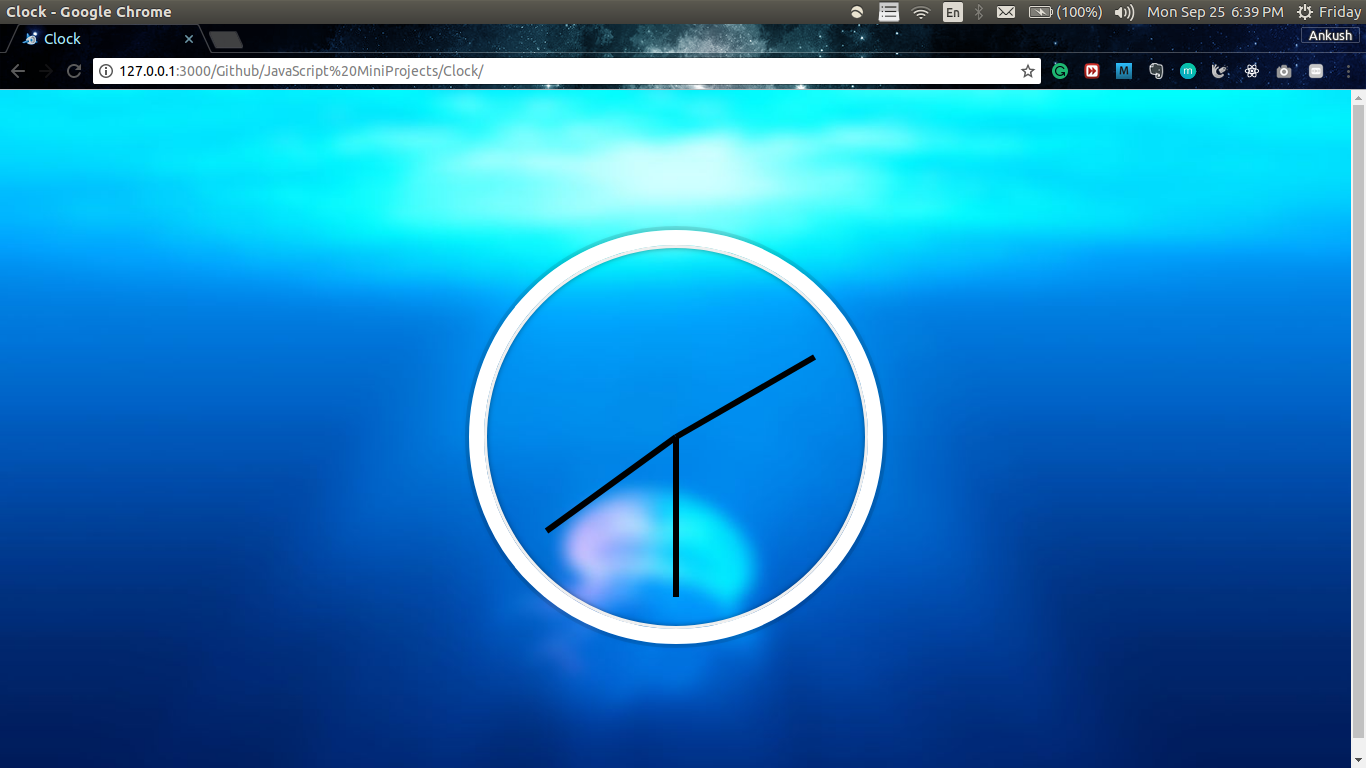
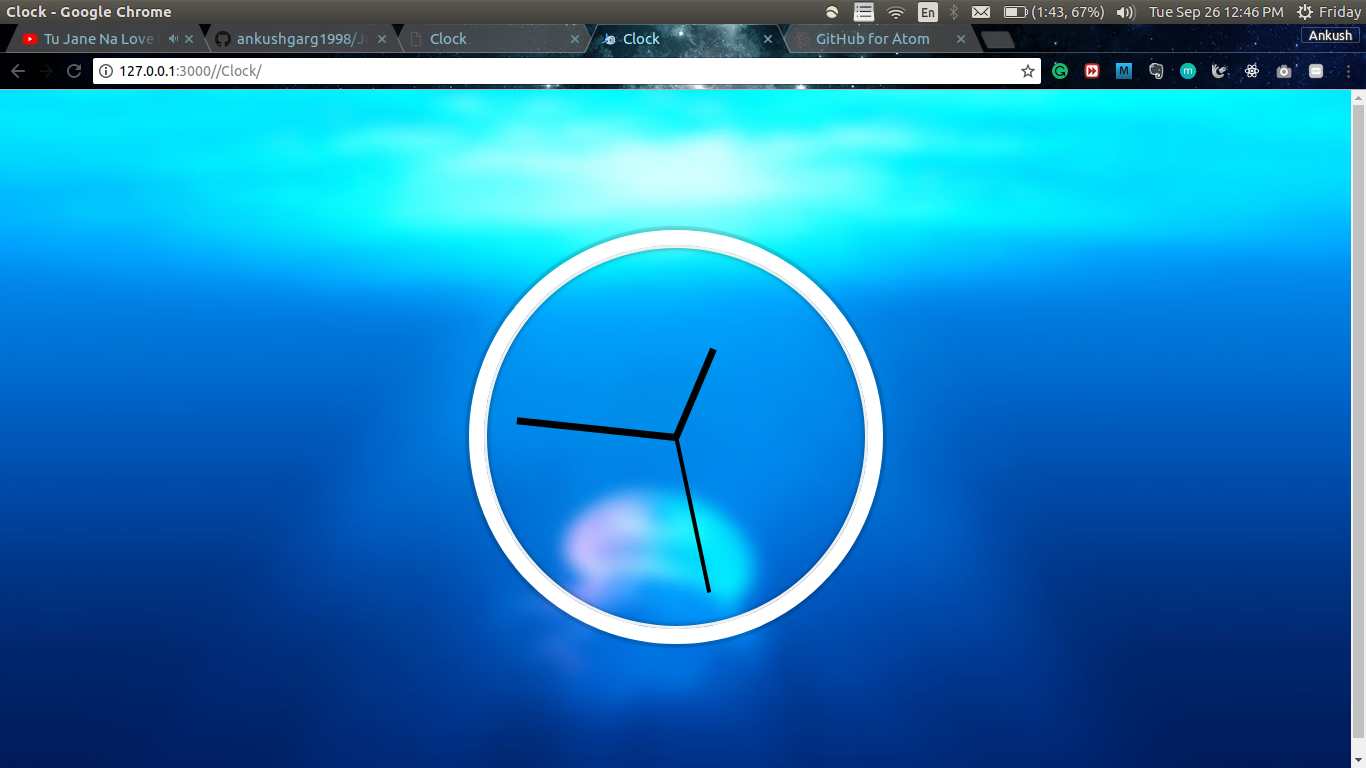
Marginal displacement of hour-hand according to minutes #5

diff --git a/Clock/index.html b/Clock/index.html
@@ -30,7 +30,7 @@
 
         const secondDegrees = ((seconds / 60) * 360) + 90;
         const minuteDegrees = ((minutes / 60) * 360) + 90;
-        const hourDegrees = (((hours%12) / 12) * 360) + 90;
+        const hourDegrees = (((hours%12) / 12) * 360) + ((minutes/60) * 30) + 90;
 
         secondHand.style.transform = `rotate(${secondDegrees}deg)`;
         minuteHand.style.transform = `rotate(${minuteDegrees}deg)`;
